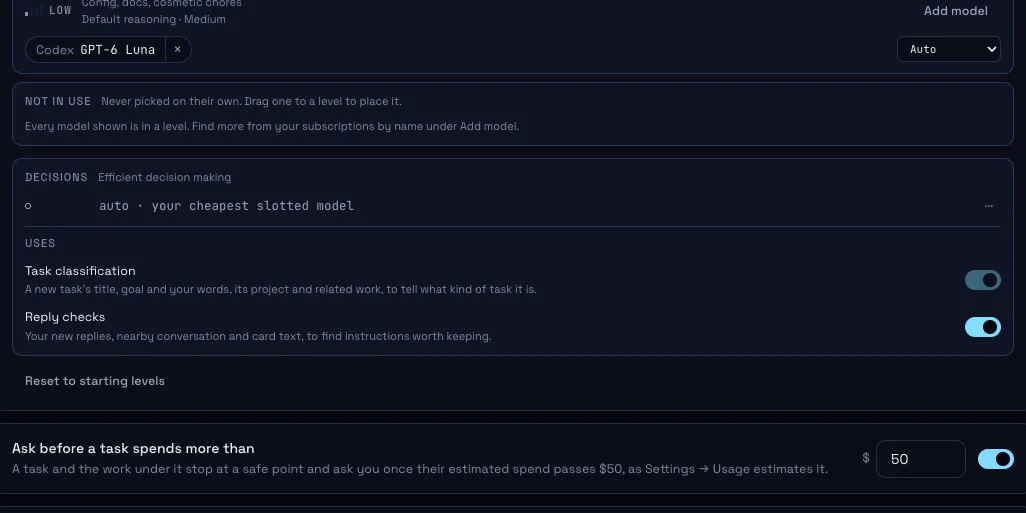
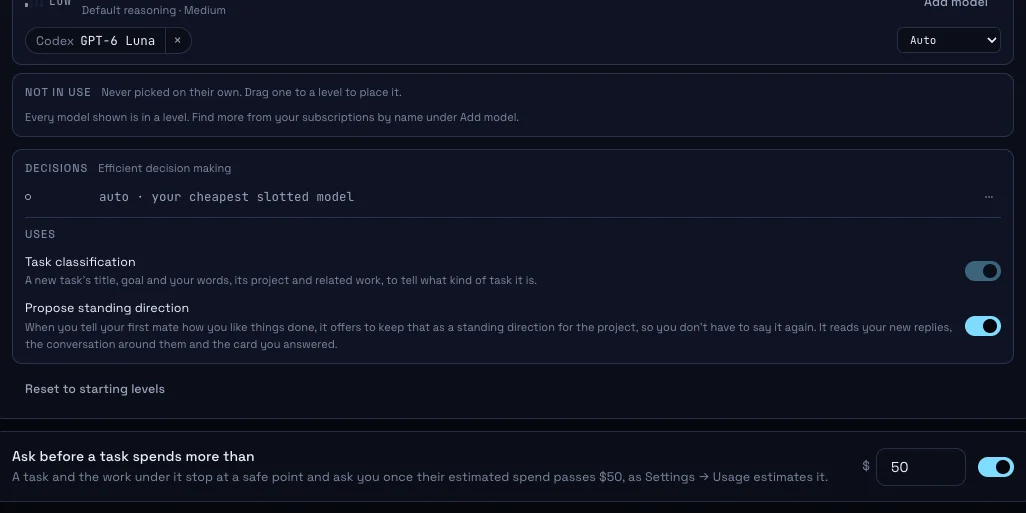
feat(decisions): name reply checks Propose standing direction
Settings → Intelligence → Models → Decisions lists the use as Propose standing direction.

Its line now says how it helps: the first mate offers to keep how you like things done as a standing direction for the project, so you don't have to say it again. It still says what it reads.

The one-time consent dialog's title quotes the new name: Allow “Propose standing direction” with Jev.

The not yet published release notes and their hero picture use the new name. How the use works, its switch and its saved setting are unchanged.

diff --git a/src/shared/decisionUses.ts b/src/shared/decisionUses.ts
@@ -43,7 +43,7 @@ export type DecisionUse = {
   id: DecisionUseId;
   /** The row's name in Settings. */
   name: string;
-  /** What the use sends a decision model, and why, in one sentence. */
+  /** Under the name in Settings: how the use helps the person, and what it sends a decision model. */
   reads: string;
   kind: DecisionUseKind;
   /** The approval screen (`consentedVersion`) a Jev or OpenRouter approval needs for this use. */
@@ -64,9 +64,10 @@ export const DECISION_USES: readonly DecisionUse[] = [
   },
   {
     id: "reply-checks",
-    name: "Reply checks",
+    // The id stays `reply-checks`, as saved switches hold it.
+    name: "Propose standing direction",
     reads:
-      "Your new replies, nearby conversation and card text, to find instructions worth keeping.",
+      "When you tell your first mate how you like things done, it offers to keep that as a standing direction for the project, so you don't have to say it again. It reads your new replies, the conversation around them and the card you answered.",
     kind: "default-on",
     approval: DECISION_APPROVAL_VERSION,
   },

diff --git a/src/renderer/src/settings/modelsWords.ts b/src/renderer/src/settings/modelsWords.ts
@@ -14,8 +14,8 @@ export const DECISION_USES_WORDS = {
   locked: "Always on: Infinitary needs it to work.",
   /** Under a use the answering model's approval predates. */
   needsApproval: (model: string) => `Turning it on asks your OK for ${model} once.`,
-  /** The consent dialog's title for that one-time OK. */
-  allowTitle: (use: string, model: string) => `Allow ${use.toLowerCase()} with ${model}`,
+  /** The consent dialog's title for that one-time OK, quoting the use's name as Settings shows it. */
+  allowTitle: (use: string, model: string) => `Allow “${use}” with ${model}`,
   allow: "Allow",
   turnOn: "Turn on",
 } as const;

diff --git a/src/renderer/src/settings/DecisionsGroup.tsx b/src/renderer/src/settings/DecisionsGroup.tsx
@@ -480,7 +480,7 @@ export function DecisionsGroup({
   );
 }
 
-/** One use: its name, what it reads, and its switch at the row's right edge. */
+/** One use: its name, how it helps and what it reads, and its switch at the row's right edge. */
 function DecisionUseRow({
   use,
   approvalFor,

diff --git a/.claude/skills/infinitary-design/components/quota/ModelsBoard.prompt.md b/.claude/skills/infinitary-design/components/quota/ModelsBoard.prompt.md
@@ -67,7 +67,7 @@ No count of unlisted models, no "show all" switch, and no newcomer badge on an u
 Decisions is its own setting under the lanes, not a fifth level (`docs/decision-models.md`).
 Its group has the answerer row on top: a status dot, the model answering in mono, its last answer, and its menu (auto, a specific model, Jev, an OpenRouter model, and a stored key's replace and remove).
 Under it, after a `--line-1` hairline, the Uses list: the uppercase tracked micro label "Uses", then one row per way Infinitary asks a decision model, drawn from `src/shared/decisionUses.ts` alone.
-A row is the use's name at `--text-sm` / `--fg-1`, what it reads under it at `--text-xs` / `--fg-3`, and its `Switch` at the row's right edge, named by the use.
+A row is the use's name at `--text-sm` / `--fg-1`, how it helps the person and what it reads under it at `--text-xs` / `--fg-3`, and its `Switch` at the row's right edge, named by the use.
 A use Infinitary needs to work (task classification) shows on and off, its note "Always on: Infinitary needs it to work."
 A use the answering model's approval predates shows off with one `--text-xs` / `--fg-3` line, "Turning it on asks your OK for Jev once."; turning it on opens the `ConsentDialog` with that model's approval, and Not now leaves it off.
 Turning Jev on, or picking an OpenRouter decision model not yet approved, opens the same dialog: Jev's key field sits inside it.

diff --git a/docs/decision-models.md b/docs/decision-models.md
@@ -170,7 +170,7 @@ They hang off the frozen `window.infinitary.models` namespace; the top-level key
 Each entry has a kind:
 
 - `always-on`: Infinitary needs it to work; its switch shows on and locked (task classification).
-- `default-on`: on until the person turns it off (reply checks).
+- `default-on`: on until the person turns it off (reply checks, which Settings names Propose standing direction).
 - `needs-ok`: off until the person agrees to its own disclosure in the consent dialog, once; no listed use is of this kind yet.
 
 The person's switches are their own settings row, `decision-uses`, holding only the uses they switched.
@@ -193,6 +193,7 @@ The scorer sits behind Observe's development gate like the other offline tools.
 ## Optional reply checks
 
 `startCorrections` connects genuine new composer, card and Crewmate-tab captain input to the same decision service, as the `reply-checks` use.
+Settings names this use Propose standing direction, and its line there says how it helps before what it reads.
 Original delivery continues without waiting for a closed question.
 `CorrectionSources` records source-time context, not a later card head or a reconstructed session transcript.
 It includes only original captain wording, nearby known exchange, the actually addressed offer and known task/project facts; captions with unknown legacy provenance remain unknown.

diff --git a/.claude/skills/infinitary-design/components/core/ConsentDialog.prompt.md b/.claude/skills/infinitary-design/components/core/ConsentDialog.prompt.md
@@ -9,7 +9,7 @@ On it one panel, centred: `--bg-2`, a `--line-2` hairline, `--radius-l`, `--shad
 It grows in like a popover, from `--scale-pop` over `--dur-quick`; reduced motion makes it a cut.
 
 **The words.**
-The title at `--text-md`, weight 500, `--fg-1`, says the act in a few words: "Turn on Jev", "Turn on Jev 1.13 through OpenRouter", "Allow reply checks with Jev".
+The title at `--text-md`, weight 500, `--fg-1`, says the act in a few words: "Turn on Jev", "Turn on Jev 1.13 through OpenRouter", "Allow “Propose standing direction” with Jev".
 Under it the rows, a definition list: each label in a column of its own at `--text-sm`, weight 500, `--fg-2`, and its sentence at `--text-sm` / `--fg-2` beside it, wrapping under the label when the panel is narrow.
 A decision model's approval has three rows, in this order: Shared (what goes to whom), Your choice (what the person can turn off or remove later), Cost (who pays, and who answers when it cannot).
 The rows say what is sent and to whom in plain words, and promise nothing the code does not keep; they never speak for the vendor.
